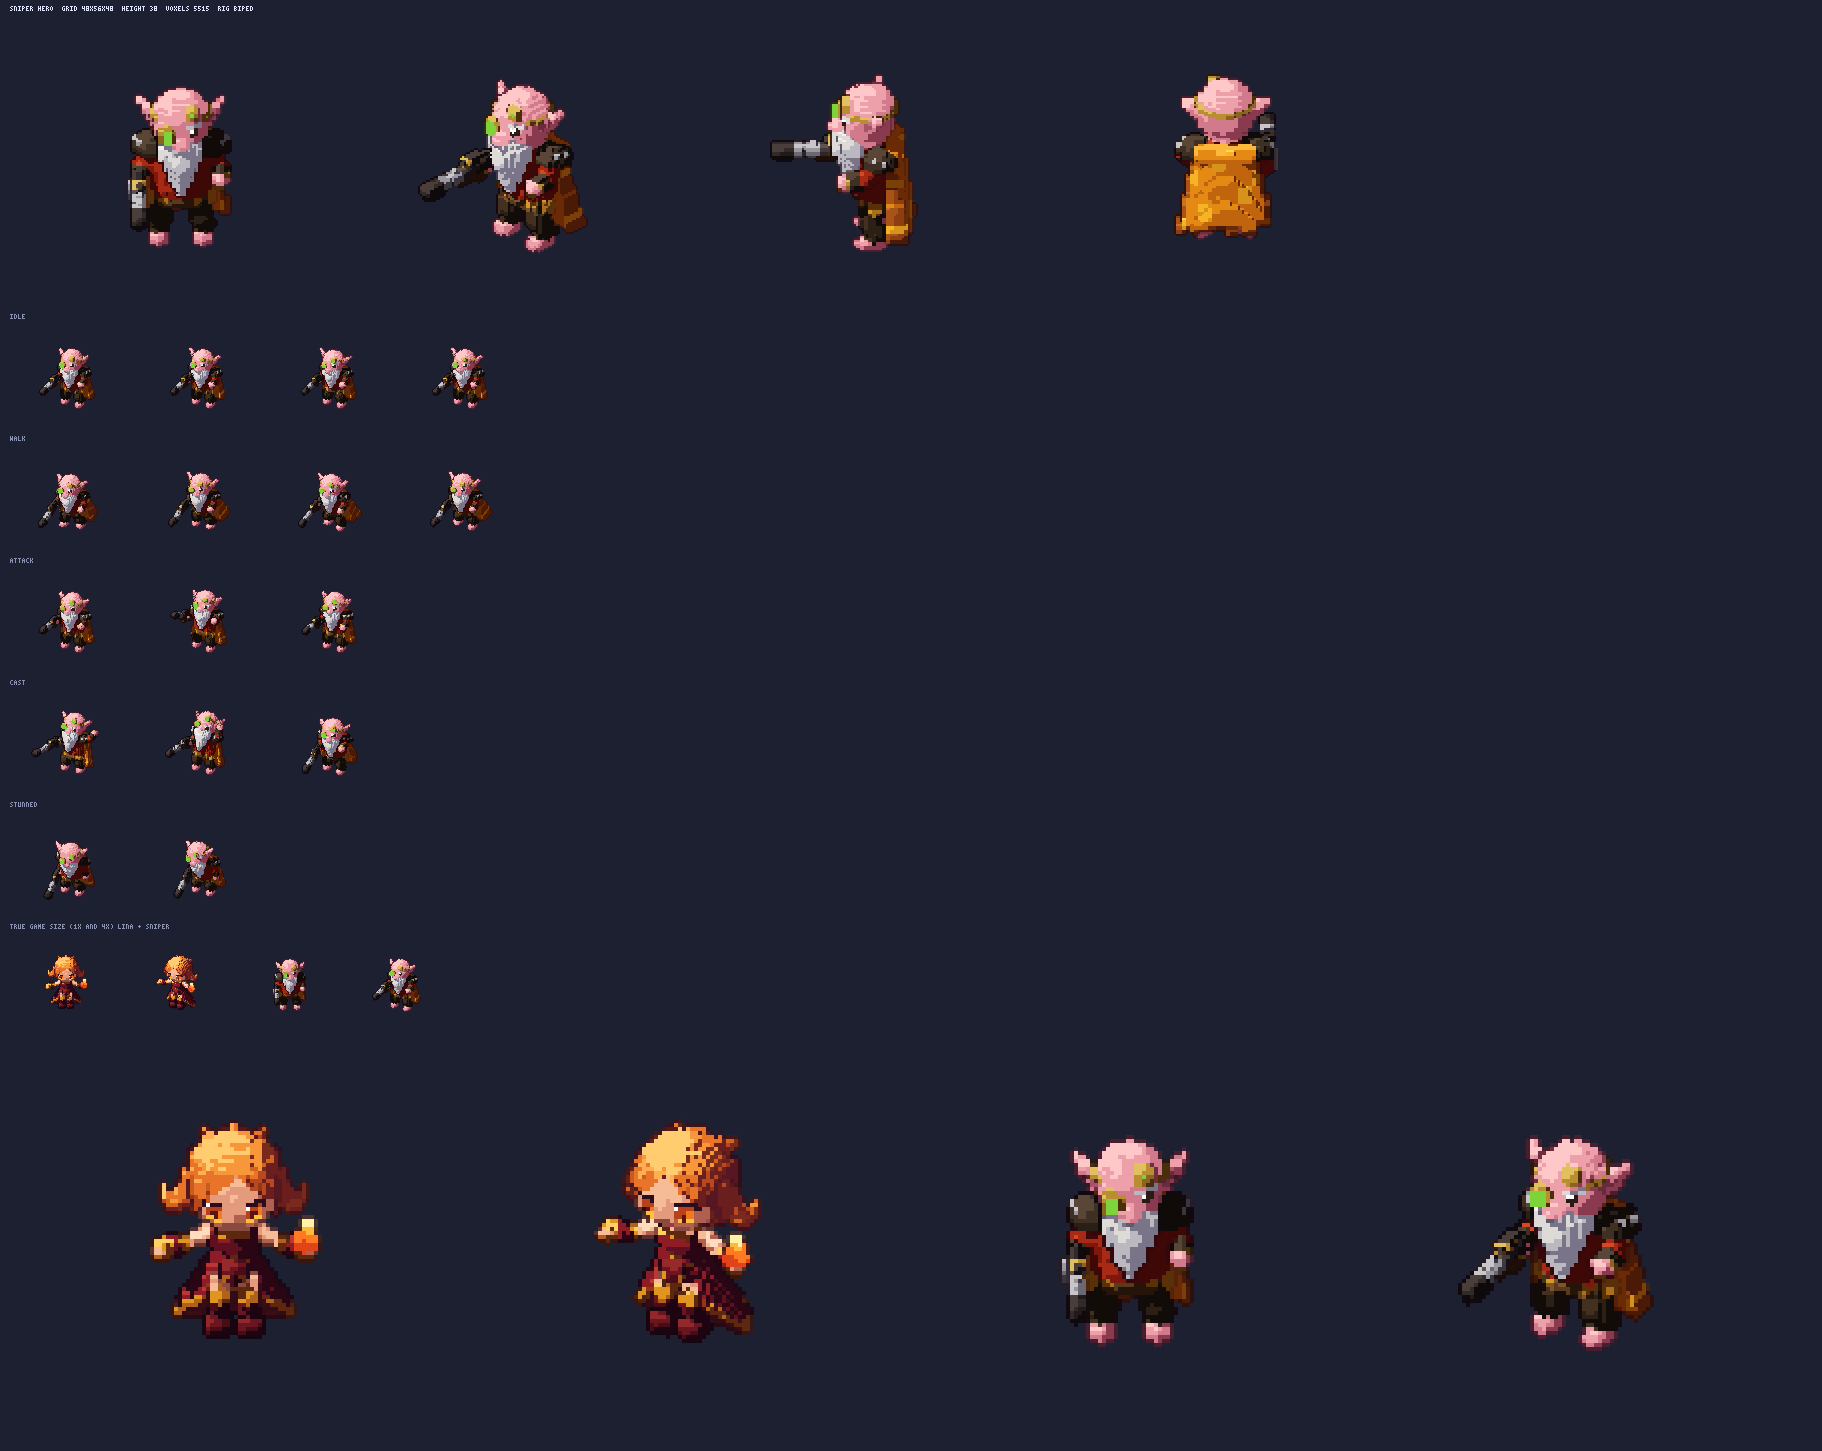
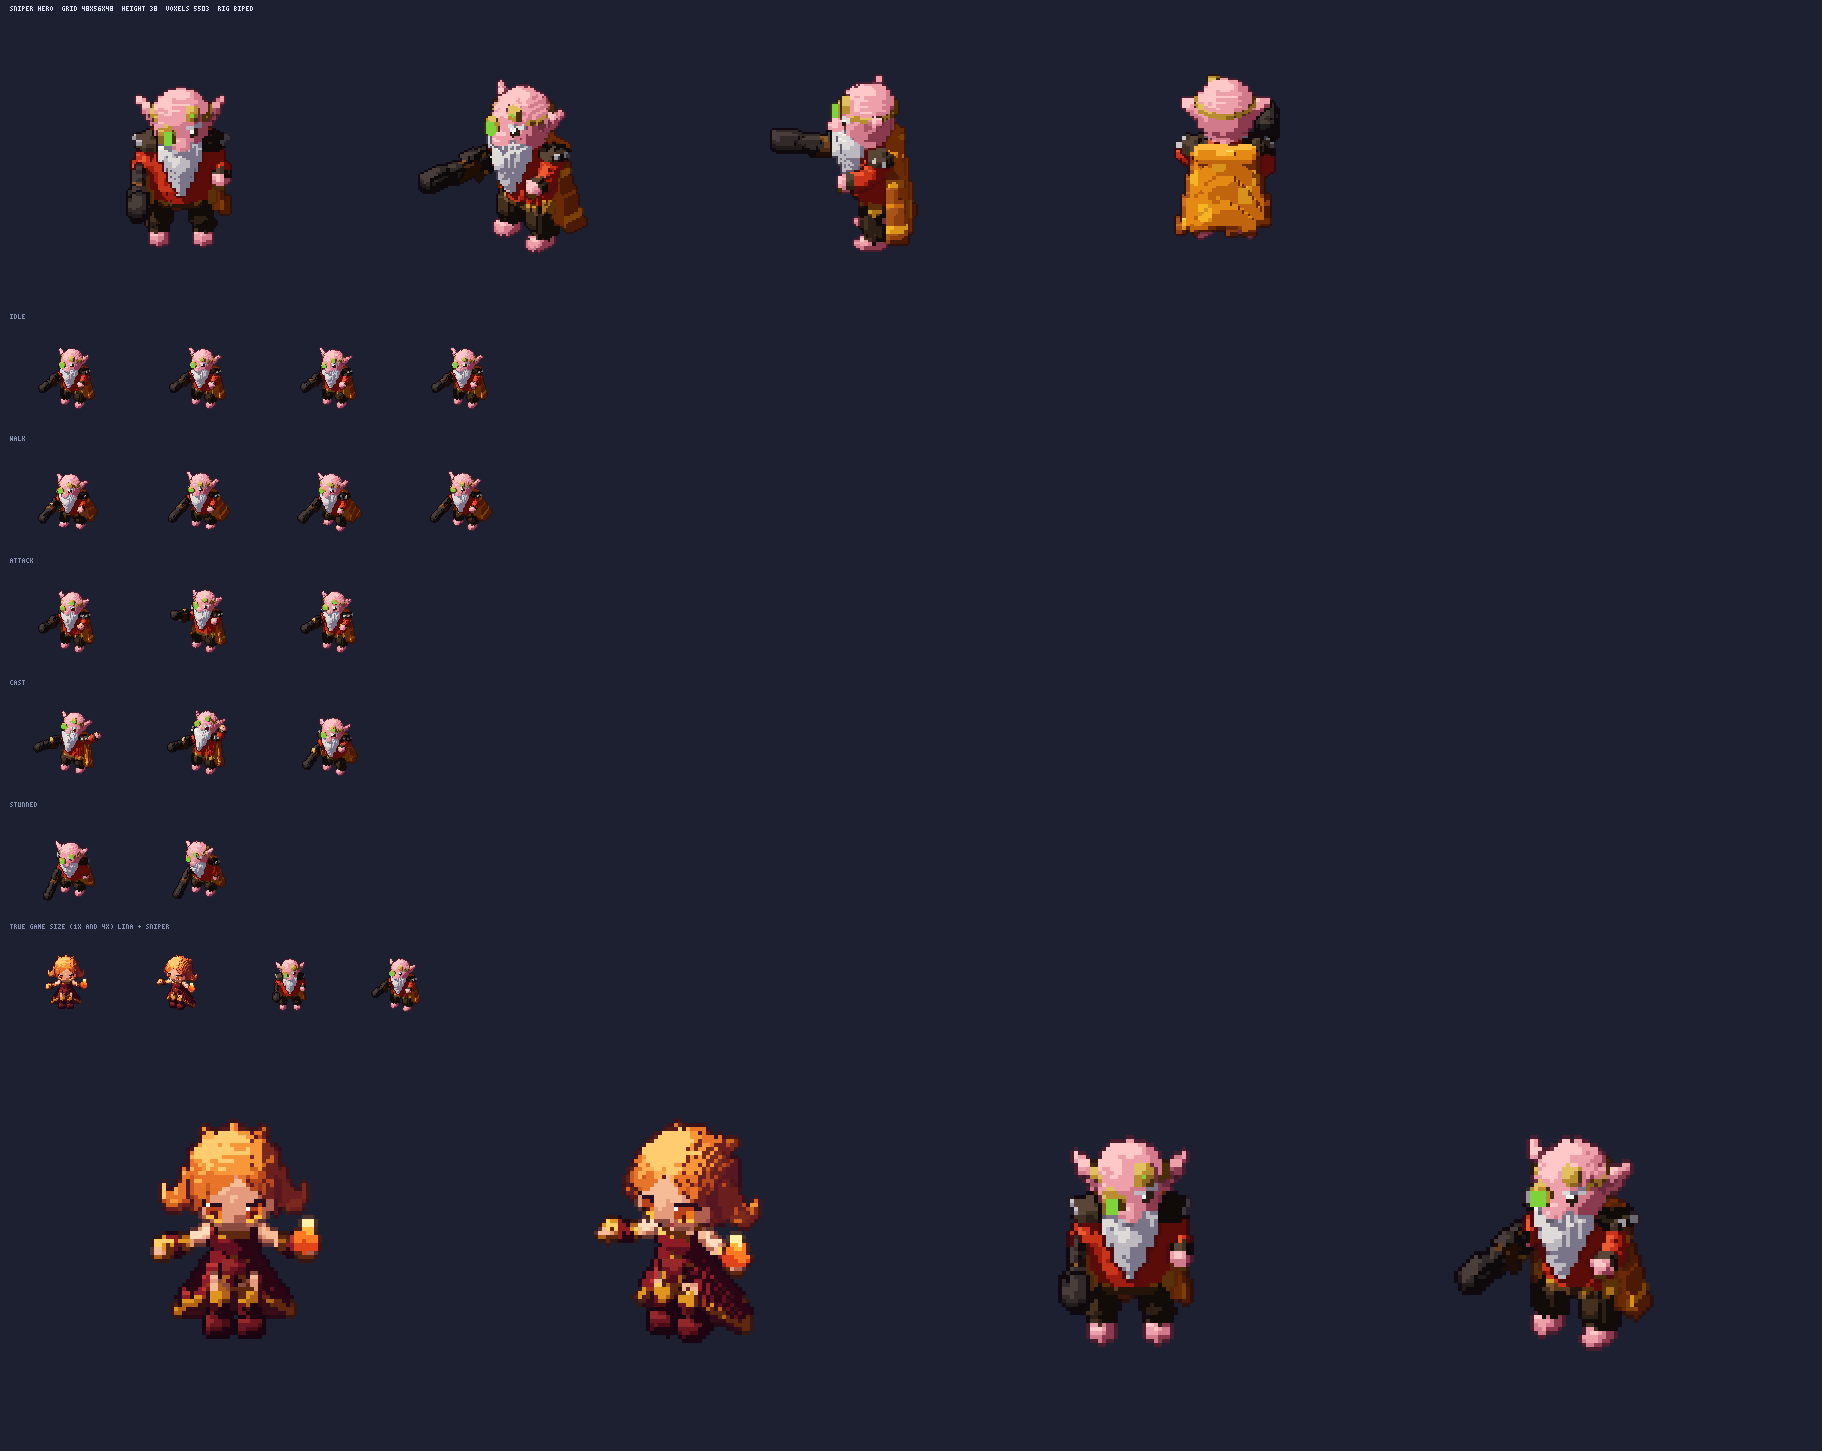
Sniper review fixes: red coat dominant (brighter red, red forearms, smaller pads, thin belt); thick brown rifle held level at the hip; cast arm raised clear of the head

diff --git a/shared/vox/heroes/sniper.js b/shared/vox/heroes/sniper.js
@@ -18,7 +18,7 @@ export const PROP = {
 };
 const SKULL = [6.6, 6.4, 6.6];
 const HOLD = { R: [[-62, 30], [-14, 82]], L: [[-34, 64], [-8, 88]] };   // right hand on the grip at the hip, left hand forward under the barrel
-const GUN = [-2, 90];                                                   // rifle aim (body frame): level, straight ahead
+const GUN = [6, 90];                                                   // rifle aim (body frame): level, straight ahead
 const hash = (x, y, z) => { const s = Math.sin(x * 12.99 + y * 78.23 + z * 37.71) * 43758.55; return s - Math.floor(s); };
 
 /** Pose p: a biped rig pose (rig.js) + gun ([el, hd] rifle aim, body frame), cape (swept back 0..1), eyes. */
@@ -30,16 +30,16 @@ function rifle(v, rig, d, M) {
   const upW = apM(Rt, [0, 0, 1]), up = norm3(sub3(upW, mul3(d, dot3(upW, d)))), side = norm3(cross3(d, up));
   const at = (t, u = 0, s = 0) => add3(add3(add3(h, mul3(d, t)), mul3(up, u)), mul3(side, s));
   obox(v, at(-5.8, -0.8), at(-0.2, 0.3), side, 1.2, t => 1.9 - t * 0.6, M.wood);              // stock (deep at the butt)
-  obox(v, at(-0.6, 0.5), at(4.4, 0.5), side, 1.3, 1.4, M.gunD);                                 // receiver
+  obox(v, at(-0.6, 0.5), at(4.4, 0.5), side, 1.6, 1.7, M.gunD);                                 // receiver
   v.capsule(at(0.6, -0.8), at(1.4, -2.6), 0.8, M.wood);                                         // pistol grip under the hand
-  obox(v, at(4, 0.2), at(9, 0.2), side, 1.2, 1.2, M.wood);                                      // fore-end
-  v.capsule(at(4, 0.6), at(16, 0.6), 1.2, M.gun);                                               // barrel
-  for (const t of [9.6, 13.2]) band(v, at(t, 0.6), at(t + 0.9, 0.6), 0, 1, 1.6, M.steel);       // barrel bands
-  v.capsule(at(15.4, 0.6), at(17.6, 0.6), 1.8, M.gunD);                                         // muzzle brake
-  v.capsule(at(0.4, 2.8), at(5.6, 2.8), 0.9, M.gunD, 1.1);                                      // scope + mounts
-  for (const t of [1.4, 4.4]) v.capsule(at(t, 1.4), at(t, 2.2), 0.5, M.brass);
-  disc(v, at(5.7, 2.8), d, 1.2, 0.6, M.brass);                                                  // scope rim
-  disc(v, at(2.2, -0.8, 2), side, 2.2, 0.7, (px, py, pz, r) => (r > 0.5 ? M.steel : undefined));   // the ring on the side
+  obox(v, at(4, 0.2), at(9, 0.2), side, 1.8, 1.8, M.wood);                                      // fore-end
+  v.capsule(at(4, 0.6), at(16, 0.6), 1.7, M.wood);                                               // barrel
+  for (const t of [9.6, 13.2]) band(v, at(t, 0.6), at(t + 0.9, 0.6), 0, 1, 2.1, M.gunD);       // barrel bands
+  v.capsule(at(15.4, 0.6), at(17.6, 0.6), 2.3, M.gunD);                                         // muzzle brake
+  v.capsule(at(0.4, 3.2), at(5.6, 3.2), 0.9, M.gunD, 1.1);                                      // scope + mounts
+  for (const t of [1.4, 4.4]) v.capsule(at(t, 1.8), at(t, 2.6), 0.5, M.brass);
+  disc(v, at(5.7, 3.2), d, 1.2, 0.6, M.brass);                                                  // scope rim
+  disc(v, at(2.2, -0.8, 2.4), side, 2.2, 0.7, (px, py, pz, r) => (r > 0.5 ? M.steel : undefined));   // the ring on the side
 }
 
 export function build(p = {}) {
@@ -48,7 +48,7 @@ export function build(p = {}) {
     skin: useMat(v, 'skin', { ramp: ['#8a3a4e', '#d07a8c', '#eea0aa', '#ffc8c8'], noShadow: true }),
     skinD: useMat(v, 'skinD', { ramp: ['#6a2a3e', '#a85468', '#c47282', '#e094a0'] }),
     beard: useMat(v, 'beard', { ramp: ['#7a7488', '#bcb8c0', '#dedad8', '#f6f2ea'] }),
-    shirt: useMat(v, 'shirt', { ramp: ['#3e0806', '#7e180c', '#a82a14', '#d04a26'] }),
+    shirt: useMat(v, 'shirt', { ramp: ['#5a0c08', '#a01e10', '#c8341a', '#ec5a32'] }),
     pants: useMat(v, 'pants', { ramp: ['#120c08', '#2c1f16', '#43301f', '#5e4630'] }),
     pad: useMat(v, 'pad', { ramp: ['#100b08', '#2a1f17', '#3f3024', '#5a4636'] }),
     belt: useMat(v, 'belt', { ramp: ['#24140a', '#5a3a1c', '#7e5428', '#a2723a'] }),
@@ -86,7 +86,7 @@ export function build(p = {}) {
   torso(v, T.torso, { c: [cx, cy], z0: 9.6, z1: 23.6, r: 9 }, (dx, dy, z) => {
     const rx = 6 + Math.min(1, z / 4) * 1 - Math.max(0, z - 10) * 0.6, ry = 4.4 + (dy < 0 ? 0.9 * Math.max(0, 1 - Math.abs(z - 5) / 5) : 0);
     if ((dx / rx) ** 2 + (dy / ry) ** 2 > 1) return;
-    if (z < 2.6) return z < 2.4 && z > 0.3 && Math.abs(Math.abs(dx) - 4.2) < 1.2 && dy < 0.5 ? M.pouch : M.belt;
+    if (z < 1.6) return z < 1.5 && z > 0.3 && Math.abs(Math.abs(dx) - 4.2) < 1.2 && dy < 0.5 ? M.pouch : M.belt;
     return M.shirt;
   });
   for (const s of [-1, 1]) ell(v, T.torso, [cx + s * 6.2, cy - 0.4, 10.4], [1.6, 1.9, 1.9], M.pouch);   // hip pouches
@@ -94,12 +94,12 @@ export function build(p = {}) {
   for (const k of ['R', 'L']) {
     const sh = J['shoulder' + k], el = J['elbow' + k], hd = J['hand' + k];
     limb(v, [sh, el], [2.1, 1.9], M.shirt);
-    v.capsule(el, hd, 1.9, (px, py, pz, t) => (t < 0.18 ? M.shirt : t > 0.8 ? M.brass : M.pad), 1.8);
+    v.capsule(el, hd, 1.9, (px, py, pz, t) => (t < 0.55 ? M.shirt : t > 0.86 ? M.brass : M.pad), 1.8);
     hand(v, hd, [1.8, 1.8, 1.6], M.skin);
   }
   for (const [k, s] of [['R', -1], ['L', 1]]) {
     const sh = J['shoulder' + k];
-    pauldron(v, sh, [3.8, 3.9, 3], M.pad, M.pad, 0.8);
+    pauldron(v, sh, [3.2, 3.3, 2.4], M.pad, M.pad, 1.2);
     for (const [ox, oy] of [[0, -2.8], [s * 2.6, -1.6], [s * 3.4, 0.8]]) v.ellipsoid(sh[0] + ox, sh[1] + oy, sh[2] + 2.6, 0.6, 0.6, 0.6, M.steel);
   }
   // cape collar over the shoulders (bunched folds behind the neck)
@@ -148,18 +148,18 @@ export const ANIMS = {
     const st = [1, 0, -1, 0][i];
     return {
       bob: [-0.5, 0, -0.5, 0][i], spine: [10, st * 4, 0], head: [-6, -st * 3, 0], footR: [0, -st * 1.6, i === 3 ? 0.5 : 0], footL: [0, st * 1.6, i === 1 ? 0.5 : 0],
-      armR: sw(HOLD.R, st * 3), armL: sw(HOLD.L, st * 3), gun: [-14 + st * 2, 84], cape: 0.8,
+      armR: sw(HOLD.R, st * 3), armL: sw(HOLD.L, st * 3), gun: [2 + st * 2, 88], cape: 0.8,
     };
   }),
   attack: [
-    { spine: [-2, 0, 0], head: [2, 0, 0], armR: [[-56, 30], [-4, 84]], armL: [[-26, 64], [2, 88]], gun: [4, 90] },
+    { spine: [-2, 0, 0], head: [2, 0, 0], armR: [[-56, 30], [-4, 84]], armL: [[-26, 64], [2, 88]], gun: [8, 90] },
     { bob: 0.2, spine: [-10, 0, 0], head: [6, 0, 0], armR: [[-46, 26], [10, 76]], armL: [[-14, 60], [16, 86]], gun: [18, 90], footR: [0, 0.8, 0], cape: 0.3 },
-    { spine: [-4, 0, 0], head: [2, 0, 0], armR: sw(HOLD.R, 2), armL: sw(HOLD.L, 2), gun: [2, 90] },
+    { spine: [-4, 0, 0], head: [2, 0, 0], armR: sw(HOLD.R, 2), armL: sw(HOLD.L, 2), gun: [7, 90] },
   ],
   cast: [
-    { spine: [-6, -14, 0], head: [-4, 10, 0], armR: HOLD.R, armL: [[30, -20], [60, -40]], gun: [-14, 80], footL: [0, 1, 0] },
-    { spine: [-10, -6, 0], head: [-10, 4, 0], armR: HOLD.R, armL: [[70, 20], [84, 40]], gun: [-14, 80] },
-    { bob: -0.4, spine: [10, 10, 0], head: [-6, -6, 0], armR: HOLD.R, armL: [[10, 80], [0, 96]], gun: [-14, 80], footL: [0, -1.6, 0], cape: 0.4 },
+    { spine: [-6, -14, 0], head: [-4, 10, 0], armR: HOLD.R, armL: [[20, -30], [40, -40]], gun: [2, 86], footL: [0, 1, 0] },
+    { spine: [-10, -6, 0], head: [-10, 4, 0], armR: HOLD.R, armL: [[56, -6], [76, 4]], gun: [2, 86] },
+    { bob: -0.4, spine: [10, 10, 0], head: [-6, -6, 0], armR: HOLD.R, armL: [[10, 80], [0, 96]], gun: [2, 86], footL: [0, -1.6, 0], cape: 0.4 },
   ],
   stunned: range(2).map(i => ({
     bob: -0.6, spine: [8, [3, -3][i], 0], head: [10, [6, -6][i], [4, -4][i]], armR: [[-80, 20], [-60, 60]], armL: [[-80, 8], [-84, 14]], gun: [-30, 86], eyes: 'x',

diff --git a/client/src/art/portraits/sniper.js b/client/src/art/portraits/sniper.js
@@ -1,7 +1,7 @@
 // GENERATED by tools/vox/portrait.mjs (sniper) -- do not edit by hand. Voxel HUD portrait 32x42 (= the 32x42 the HUD shows, 1 art px = 1 u), opaque.
 // Loaded by client/src/art/portraits.js, which swaps it into the sheet's 'portrait' frame unless ?vox=0.
 export default {
-  pal: { '0':'#2a1f17', '1':'#8a3a4e', '2':'#f8e8c6', '3':'#fcd5b7', '4':'#b9aea7', '5':'#dedad8', '6':'#100b08', '7':'#7ed23a', '8':'#b88e30', '9':'#300605', '!':'#141311', '#':'#1f1a13', '$':'#372918', '%':'#bcb8c0', '&':'#d07a8c', '(':'#7a7488', ')':'#481e2e', '*':'#5e421e', '+':'#7e180c', ',':'#3e0806', '-':'#eea0aa', '/':'#11090f', ':':'#2b1910', ';':'#e6a8a2', '<':'#8a6420', '=':'#26080e', '>':'#efd288', '?':'#4a2e0c', '@':'#bdb2e2', 'A':'#61533f', 'B':'#f5bbb1', 'C':'#bfb4e3', 'D':'#b29b75', 'E':'#c38883', 'F':'#a85468', 'G':'#241d28', 'H':'#93533a', 'I':'#e79d6e', 'J':'#a77996', 'K':'#a82a14', 'L':'#9c9a9c', 'M':'#220c0b', 'N':'#9d804a', 'O':'#4a3e3a', 'P':'#5f5a6a', 'Q':'#7e89af', 'R':'#bfb5e3', 'S':'#bd9b54', 'T':'#3f3024', 'U':'#322a28', 'V':'#ab9777', 'W':'#78777b', 'X':'#73412d', 'Y':'#827b73', 'Z':'#170b05', '[':'#d4b05c', ']':'#413948', '^':'#2a1a14', '_':'#79664d', 'a':'#a4b3e2', 'b':'#6f779f', 'c':'#665949', 'd':'#6d759d', 'e':'#621309', 'f':'#221e1f', 'g':'#b2a58f', 'h':'#939096', 'i':'#b47a56', 'j':'#574c3e', 'k':'#c1a565', 'l':'#3a302d', 'm':'#504539', 'n':'#bfb7e4', 'o':'#c47282', 'p':'#ffffff', 'q':'#727aa1', 'r':'#6e5d46', 's':'#9a989e', 't':'#b8c7f3', 'u':'#6e769e', 'v':'#6c76a2', 'w':'#7b6b59', 'x':'#6f6150', 'y':'#a6b5e5', 'z':'#afb0b0', '{':'#423a3a', '|':'#958e85', '}':'#e4d4b7', '~':'#6a6870', '¡':'#5e5450', '¢':'#d6cdc0', '£':'#a79e94', '¤':'#2b100e', '¥':'#535157', '¦':'#332d2d', '§':'#49423e', '¨':'#b28856', '©':'#a48c96', 'ª':'#2d2a32', '«':'#4a2a14', '¬':'#605345', '®':'#e4af6e', '¯':'#806d75', '°':'#221f25', '±':'#696478', '²':'#3e3d41', '³':'#1d1817', '´':'#493f33', 'µ':'#645845', '¶':'#462506', '·':'#483926', '¸':'#846536', '¹':'#27140c' },
+  pal: { '0':'#322a28', '1':'#f8e8c6', '2':'#fcd5b7', '3':'#b9aea7', '4':'#320a0f', '5':'#dedad8', '6':'#11090f', '7':'#7ed23a', '8':'#2b1910', '9':'#b88e30', '!':'#141311', '#':'#1f1a13', '$':'#372918', '%':'#bcb8c0', '&':'#d07a8c', '(':'#481e2e', ')':'#7a7488', '*':'#5e421e', '+':'#eea0aa', ',':'#a01e10', '-':'#5a0c08', '/':'#8a3a4e', ':':'#2a1f17', ';':'#460906', '<':'#e6a8a2', '=':'#a7583e', '>':'#191414', '?':'#8a6420', '@':'#4a2e0c', 'A':'#bdb2e2', 'B':'#c8341a', 'C':'#27211f', 'D':'#f5bbb1', 'E':'#bfb4e3', 'F':'#efd288', 'G':'#b29b75', 'H':'#f4a473', 'I':'#ab9777', 'J':'#c38883', 'K':'#a85468', 'L':'#100b08', 'M':'#b5809c', 'N':'#6f6150', 'O':'#220c0b', 'P':'#9d804a', 'Q':'#665949', 'R':'#6873a0', 'S':'#85765d', 'T':'#0b0809', 'U':'#bfb5e3', 'V':'#241d28', 'W':'#61533f', 'X':'#4a3e3a', 'Y':'#6a401e', 'Z':'#5d5142', '[':'#100910', ']':'#824530', '^':'#201a1a', '_':'#493f33', 'a':'#bd9b54', 'b':'#413948', 'c':'#2a1a14', 'd':'#6e5d46', 'e':'#6f779f', 'f':'#b07e9b', 'g':'#6b76a2', 'h':'#50597c', 'i':'#3a2110', 'j':'#5f5a6a', 'k':'#be805a', 'l':'#515a7d', 'm':'#964e0b', 'n':'#50597b', 'o':'#c1a565', 'p':'#d4b05c', 'q':'#bfb7e4', 'r':'#c47282', 's':'#ffffff', 't':'#3a170e', 'u':'#727aa1', 'v':'#c0640e', 'w':'#bac9f5', 'x':'#a5b4e3', 'y':'#3f3024', 'z':'#9a989e', '{':'#b7829d', '|':'#6b76a1', '}':'#6c76a2', '~':'#6974a1', '¡':'#baafde', '¢':'#8e5c2e', '£':'#525a7e', '¤':'#3a302d', '¥':'#2b100e', '¦':'#93867c', '§':'#9188ad', '¨':'#b28856', '©':'#a48c96', 'ª':'#b26c10', '«':'#686377', '¬':'#1e0e06', '®':'#0e0a0c', '¯':'#e4af6e', '°':'#806d75', '±':'#834213', '²':'#703a08', '³':'#6e697c', '´':'#a4781e', 'µ':'#40465f', '¶':'#130f0f', '·':'#340705', '¸':'#613324', '¹':'#846536', 'º':'#27140c' },
   face: [4, 11, 24, 24],
   rows: [
     '!!!!!!!!!!!#!#!#!#######!#!#!!!!',
@@ -15,36 +15,36 @@ export default {
     '!!!!!!!#!##$#$$$$*$*$*$*$$$$####',
     '!!#!#!####$#$$*$*$*****$*$$$$#$#',
     '!!!!!#!####$$$$*$*******$*$$#$##',
-    '!!!!####$#$$$))))))))****$$$$#$#',
-    '!!!!!#!####$)RBB;;;;3:::$$$$#$##',
-    '!!#!#)####$)C--&&&&;[SS>:$*$$#$#',
-    '!!!!)n)##$)C--&&&&&&<<7>))$$#$##',
-    '!!!!)R3)))C----&&&&&&?N>;3)$$#$#',
-    '!!!!)RBB3:C----&&&&&&?NN>3)$####',
-    '!!#!#)CBo8888&-&&&&1111E>:$$$#$#',
-    '!!!!!#)@FFF-&-&8<<111((42]#$#$##',
-    '!!!!#!#)@FF-&88877?111p^3)$#$###',
-    '!!!!!!!#)@&-&88777?111^E3)#$####',
-    '!!!!!!#!)@&-&&<<77?1111E3)$#####',
-    '!!!!!!!#!)@&&&<777?&&E13)$####!#',
-    '!!!!#!#!##)@&&&&((&&&E33)######!',
-    '!!!!!!!!!#)@-&5%%%%%(442]###!#!#',
-    '!!!!!//////C555%%%%(((442/###!#!',
-    '!!!!Gq__r060555%%%%((((42D/#!#!!',
-    '!!!GaTs0000055%%%%%%%((42AD/#!#!',
-    '!!!/bT00000055%%%%%%%((42AD/!!!!',
-    '!!!/b00000066t(%%%%%(((26AD/!!!!',
-    '!!!!/u066666++(%%%%%((42,HI//!!!',
-    '!!!!=J,,,,,,+K%%%(%(((2,,HAAD/!!',
-    '!!!!=JK+++,,+K%%%%(((42,,66AAD)!',
-    '!!!=JKKU+++++++%%((((2,,,6--B;3)',
-    '!!!=JTvwcV,++++5%(((42,I/d-&&;3)',
-    '!!!=JOOO[xc>+++5%%%(42HI=/d1?N>:',
-    '!!!!GyUUz<V,+++%%%%(42HI=!/):::!',
-    '!!!!GaW{8S|},,e+%%P(2,XI=!!!!!!!',
-    '!!!!GQ~f¡L¢Y£g,e+h(P,9Hi¤!!!!!!!',
-    '!!!!MQ¥f¦L§LYYg99hPP99Xi¨M!!!!!!',
-    '!!!M©QªZ«WLLO¬jjV999,9Xk®M!!!!!!',
-    '!!!M¯Q°Z±Z²Wll³mm´µ99¶·¸k¹!!!!!!'
+    '!!!!####$#$$$((((((((****$$$$#$#',
+    '!!!!!#!####$(UDD<<<<2888$$$$#$##',
+    '!!#!#(####$(E++&&&&<paaF8$*$$#$#',
+    '!!!!(q(##$(E++&&&&&&??7F(($$#$##',
+    '!!!!(U2(((E++++&&&&&&@PF<2($$#$#',
+    '!!!!(UDD28E++++&&&&&&@PPF2($####',
+    '!!#!#(EDr9999&+&&&&////JF8$$$#$#',
+    '!!!!!#(AKKK+&+&9??///))31b#$#$##',
+    '!!!!#!#(AKK+&99977@///sc2($#$###',
+    '!!!!!!!#(A&+&99777@///cJ2(#$####',
+    '!!!!!!#!(A&+&&??77@////J2($#####',
+    '!!!!!!!#!(A&&&?777@&&J/2($####!#',
+    '!!!!#!#!##(A&&&&))&&&J22(######!',
+    '!!!!!!!!!#(A+&5%%%%%)331b###!#!#',
+    '!!!!!!#666tE555%%%%)))3316###!#!',
+    '!!!!V6VudGvew55%%%%))))31G6#!#!!',
+    '!!!Vxyz:d:::55%%%%%%%))31G6!#!#!',
+    '!!!!6e::LL::55%%%%%%%))31G6#!!!!',
+    '!!!!!4f:----5%)%%%%%)))1=H4!!!!!',
+    '!!!!!4M,---,,,)%%%%%))31==H66!!!',
+    '!!!!4{B,,-,,,B%%%)%)))1--==WG6!!',
+    '!!!!4MB|I,,,,B%%%%)))31--LLWWG(!',
+    '!!!4MBB}NQI,,,,%%))))1---L++D<2(',
+    '!!!4MB0~0QI,,,,5%)))31-H4f+&&<2(',
+    '!!!4MXX0YgNgNQZI%%%)31=H44(¡@PF8',
+    '!!!![R0¢Y00000NNZI))31=H4!!(888!',
+    '!!!![RCYR0£000C0QZS)1-]H4!!!!!!!',
+    '!!!![h^iRCX¤0C0>^_Ij-;=k¥!!!!!!!',
+    '!!!!O¦§ih>lCCC>>>_Sj;;]k¨O!!!!!!',
+    '!!!O©ªm«¬nTl^>>>®_S;-;]o¯O!!!!!!',
+    '!!!O°±²m³´µ;nT¶TTS·;;;¸¹oº!!!!!!'
   ]
 };
